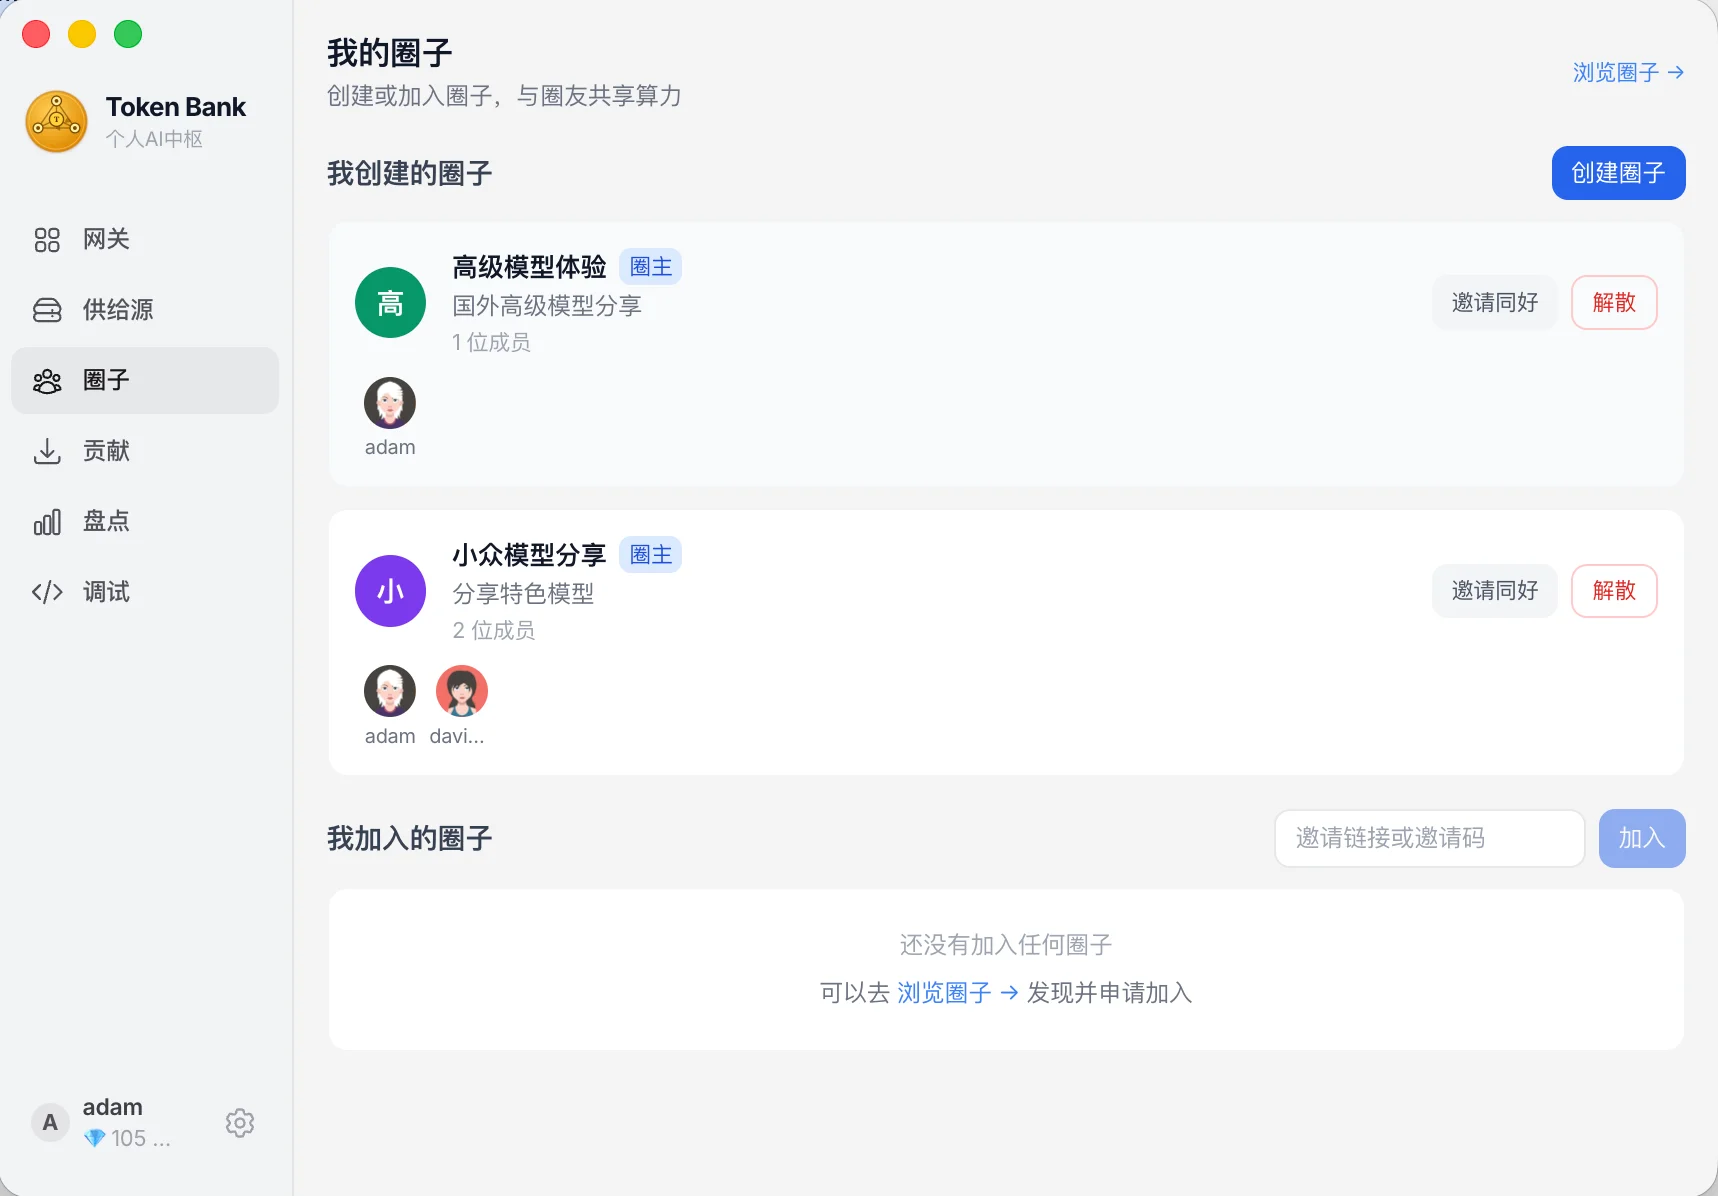
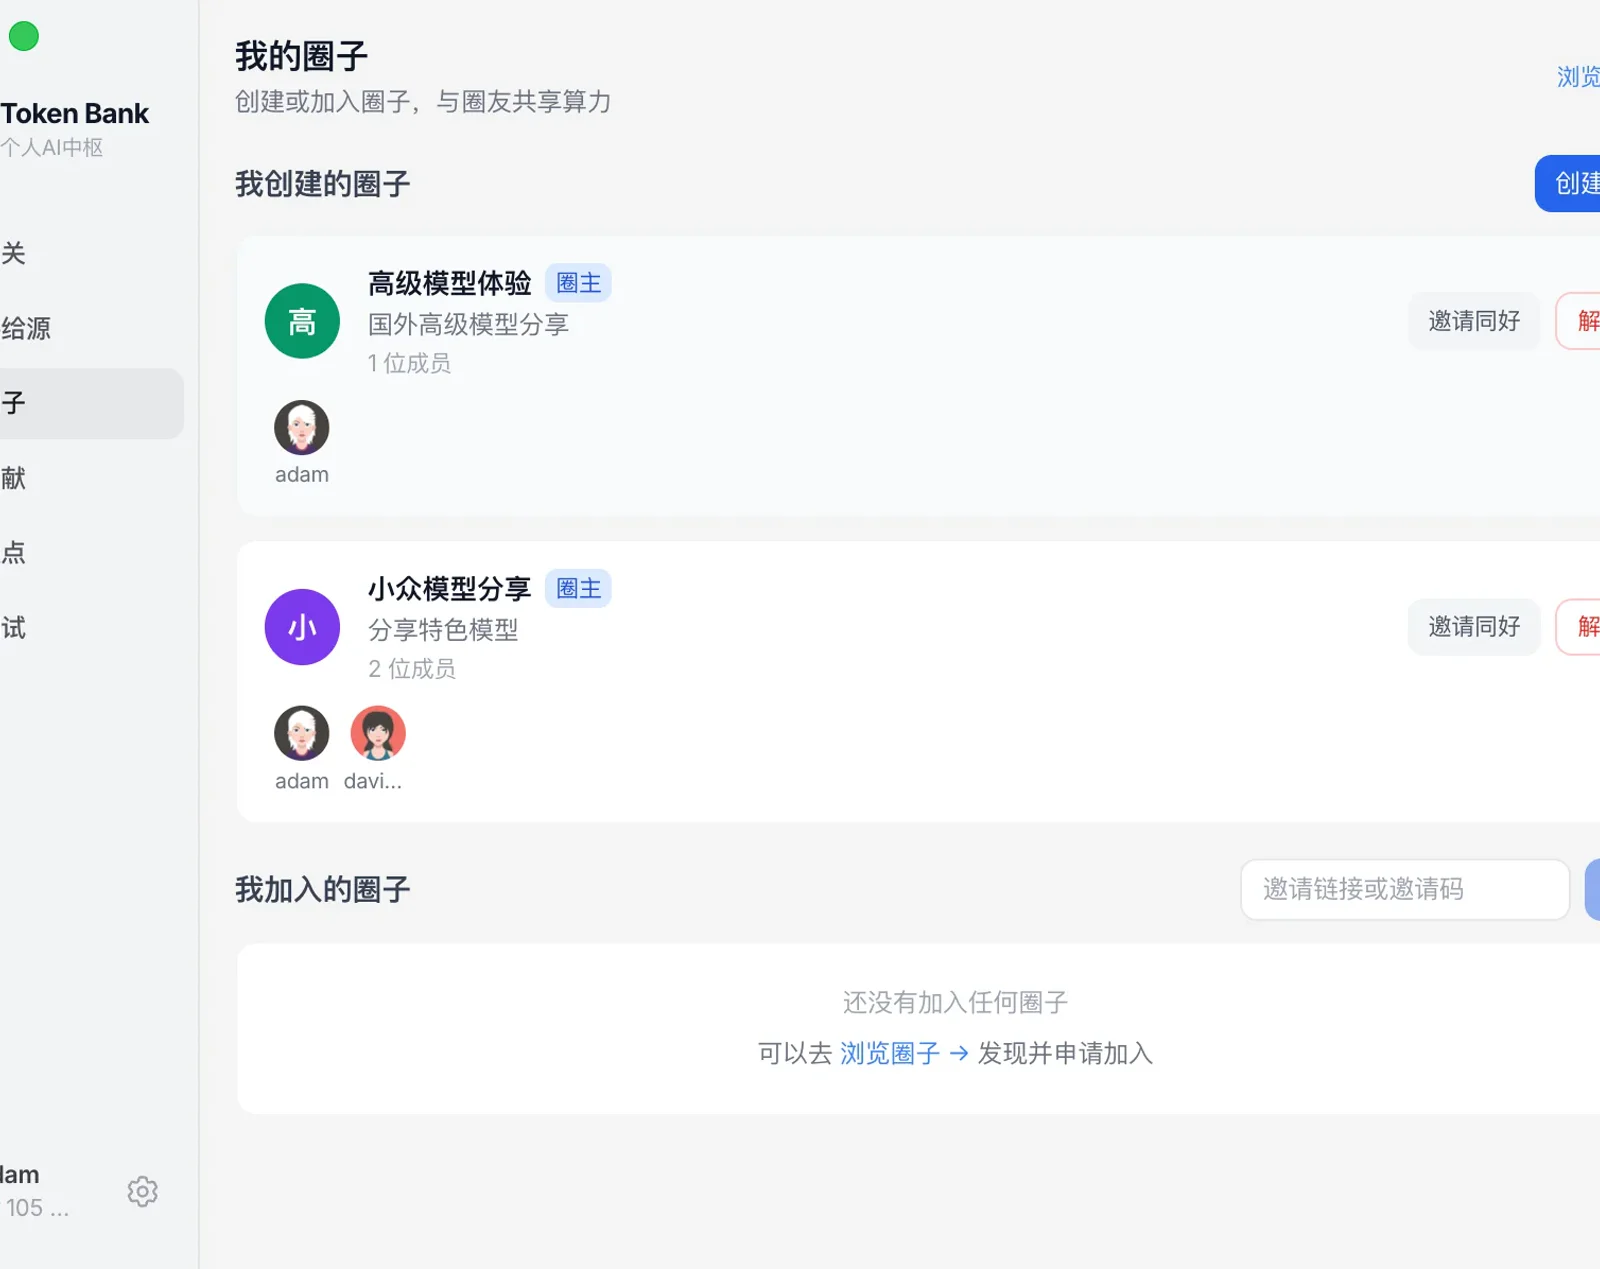
统一 hero 截图为 1600×1269，并补充调试页预览 tab。

diff --git a/server/static/landing.html b/server/static/landing.html
@@ -145,6 +145,7 @@
               <span data-tab="circle" data-i18n="hero.tab.circle" style="font-size:12px;color:#7b7b7b;padding:4px 10px;border-radius:8px;cursor:pointer;">Circles</span>
               <span data-tab="world" data-i18n="hero.tab.world" style="font-size:12px;color:#7b7b7b;padding:4px 10px;border-radius:8px;cursor:pointer;">Network</span>
               <span data-tab="device" data-i18n="hero.tab.device" style="font-size:12px;color:#7b7b7b;padding:4px 10px;border-radius:8px;cursor:pointer;">Devices</span>
+              <span data-tab="trace" data-i18n="hero.tab.trace" style="font-size:12px;color:#7b7b7b;padding:4px 10px;border-radius:8px;cursor:pointer;">Debug</span>
             </div>
             <span style="margin-left:auto;font-family:'Space Mono',monospace;font-size:12px;color:#bcbcbc;">localhost:11430</span>
           </div>
@@ -832,7 +833,7 @@ class Component extends DCLogic {
     'hero.ctaPrimary': '免费下载', 'hero.ctaSecondary': '在 GitHub 查看',
     'hero.meta': 'macOS · Windows · Linux　·　Apache-2.0 开源',
     'hero.tab.dashboard': '盘点', 'hero.tab.gateway': '网关', 'hero.tab.provider': '供给源',
-    'hero.tab.contribute': '贡献', 'hero.tab.circle': '圈子', 'hero.tab.world': '网络', 'hero.tab.device': '设备',
+    'hero.tab.contribute': '贡献', 'hero.tab.circle': '圈子', 'hero.tab.world': '网络', 'hero.tab.device': '设备', 'hero.tab.trace': '调试',
     'trust.label': '已与你正在用的主流 AI 应用协同',
     'stat.1': '一个本地端口<br>接管全部 AI 应用',
     'stat.2': '种协议自动转换<br>Anthropic · OpenAI · Codex',
@@ -980,7 +981,7 @@ class Component extends DCLogic {
 
     // hero tab switching（含自动轮播）
     const tabs = root.querySelector('#tb-tabs');
-    const TAB_KEYS = ['dashboard', 'gateway', 'provider', 'contribute', 'circle', 'world', 'device'];
+    const TAB_KEYS = ['dashboard', 'gateway', 'provider', 'contribute', 'circle', 'world', 'device', 'trace'];
     const switchHeroTab = (key) => {
       if (!tabs) return;
       const lang = this.state.lang || 'en';

diff --git a/server/server.py b/server/server.py
@@ -72,7 +72,7 @@ _LANDING_SCREENSHOTS = frozenset({
     "circle.webp", "circle_en.webp",
     "world.webp", "world_en.webp",
     "device.webp", "device_en.webp",
-    "trace_en.webp",
+    "trace.webp", "trace_en.webp",
 })
 
 
